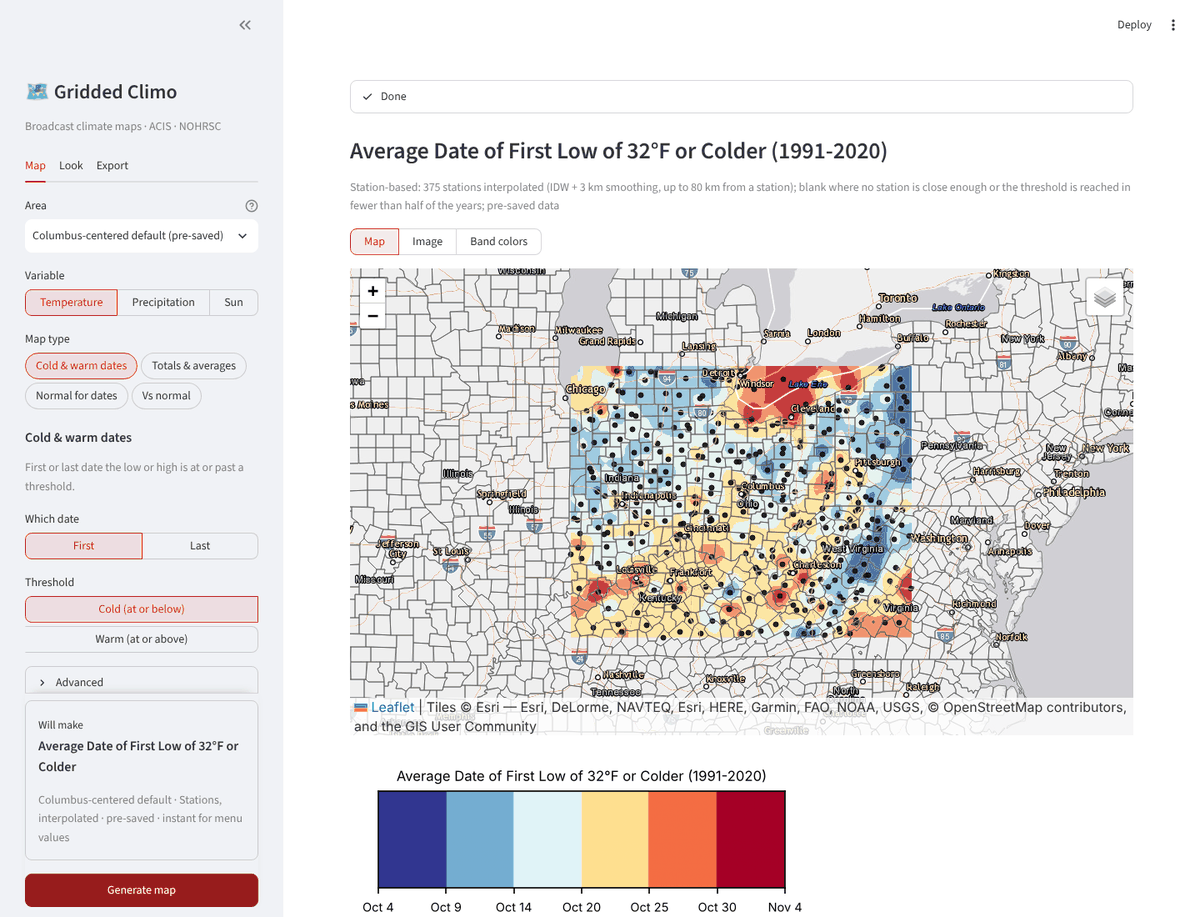
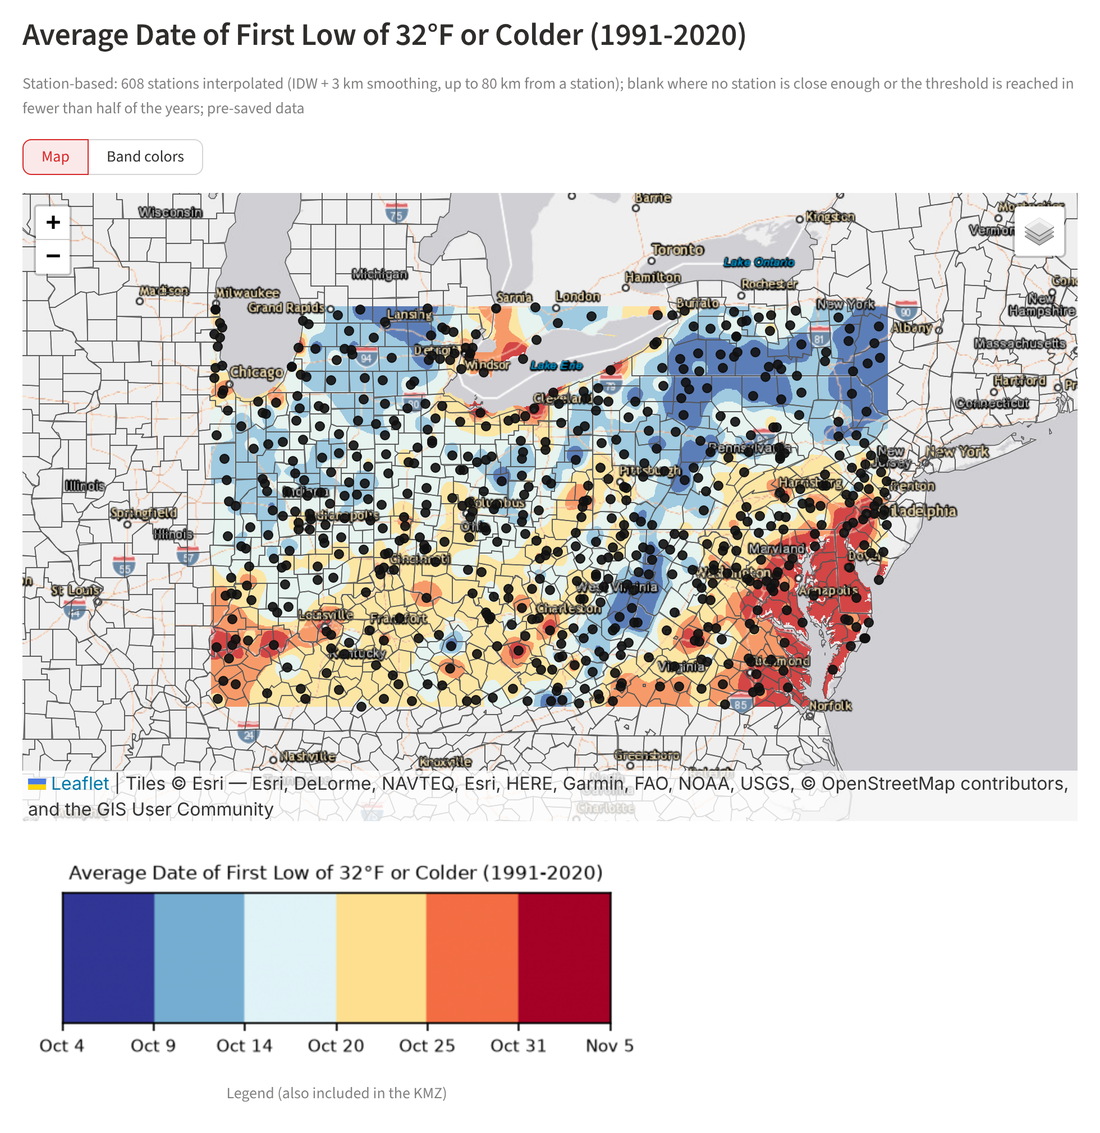
Gridded Climo tab: the Image view is gone
Removed the Image step and screenshot, retook the finished-map screenshot
(the legend now sits under the map; 608 stations).

Claude-Session: https://claude.ai/code/session_016pS5E4S9xH4jjAaWseSpug

diff --git a/content/app-gridded-climo.md b/content/app-gridded-climo.md
@@ -31,15 +31,12 @@ Gridded Climo makes climate maps for broadcast: average first and last freeze da
 2. On the **Map** tab in the sidebar, choose the **Area**, then a **Variable** (Temperature, Precipitation or Sun) and a **Map type**.
 3. Fill in the short form for that map type: the threshold, the dates or years, the statistic. A "Will make" box at the bottom of the sidebar says exactly what the map will be.
 4. Click **Generate map**.
-5. Look at the result in the main panel, then switch between **Map** (on a basemap), **Image** (the colored overlay by itself, with its legend) and **Band colors** (edit each color band).
+5. Look at the result in the main panel: the **Map** (on a basemap, with its legend below it), or switch to **Band colors** to edit each color band.
 6. On the **Look** tab, adjust the ramp, steps and grouping. Changes apply right away and never refetch the data.
 7. On the **Export** tab, click **Download KMZ** and bring it into Max.
 
-![A finished map: average date of the first 32 degree low across Ohio and neighboring states, with stations shown on the basemap](images/gridded-climo-map.png)
-*A finished map: the average date of the first low of 32 degrees or colder, 1991-2020, built from 375 stations.*
-
-![The map as a plain colored overlay with its legend](images/gridded-climo-image.png)
-*The Image view: the colored overlay by itself on a neutral gray, with its legend (the legend is also included in the KMZ).*
+![A finished map: average date of the first 32 degree low across Ohio and neighboring states, with stations shown on the basemap and the legend below](images/gridded-climo-map.png)
+*A finished map: the average date of the first low of 32 degrees or colder, 1991-2020, built from 608 stations, with its legend below. The legend is also included in the KMZ.*
 
 ![The Look tab with preset, color ramp, shading and date grouping controls](images/gridded-climo-look.png)
 *The Look tab: color ramp, shading, steps and how dates are grouped.*
